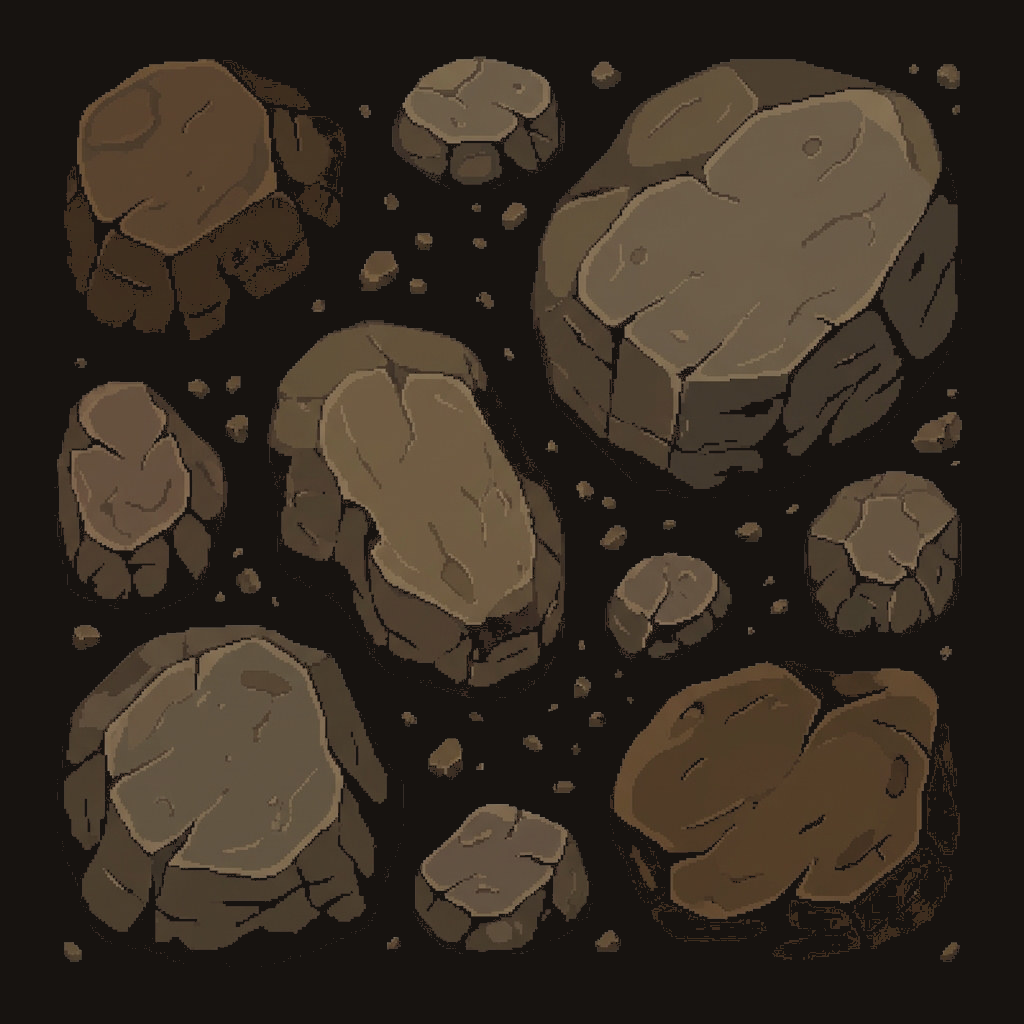
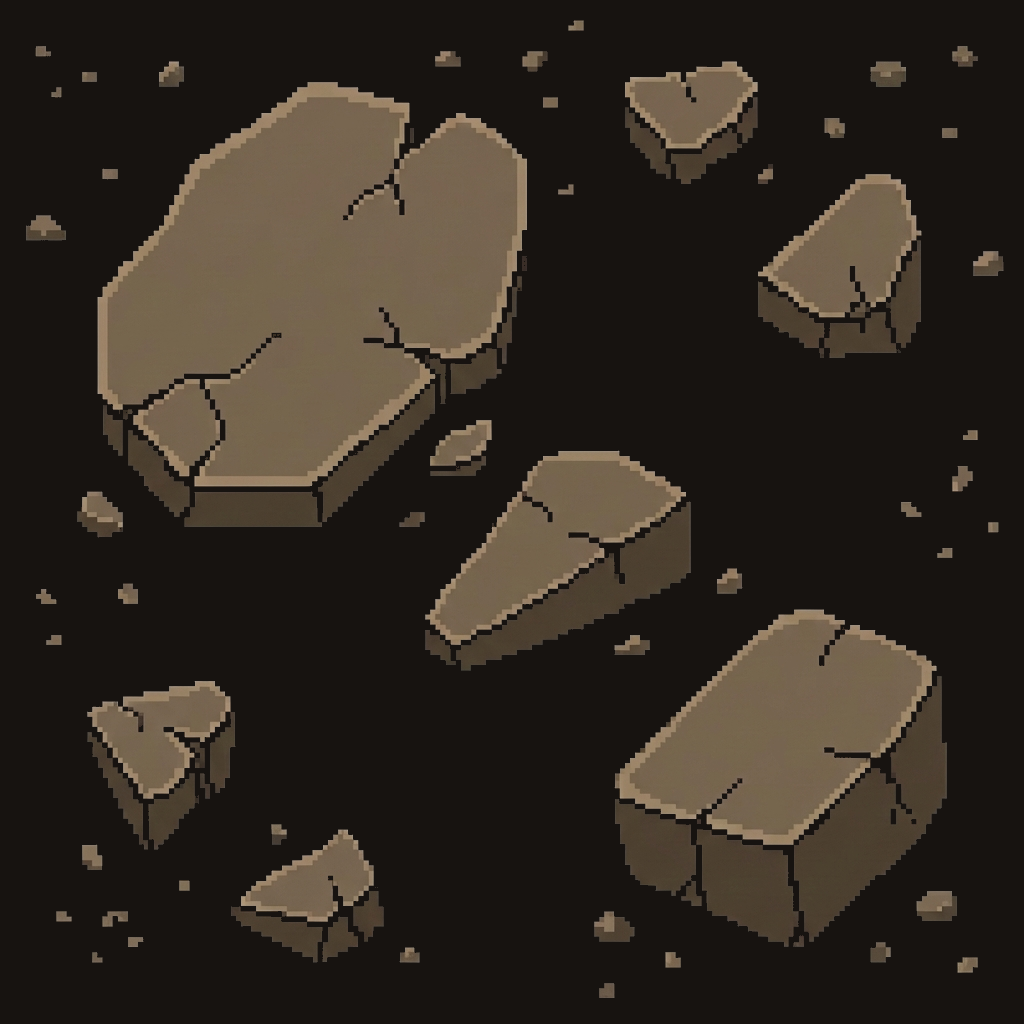
tile patch

diff --git a/README.md b/README.md
@@ -51,7 +51,11 @@ cd FAangband && ./autogen.sh
 ### 5. Install the tileset into the FAangband source tree
 
 ```sh
-cd ../hither-lands && ./install.sh ../FAangband
+cd ../hither-lands
+```
+
+```sh
+./install.sh
 ```
 
 This builds the atlas from source tiles, copies it into `lib/tiles/`,
